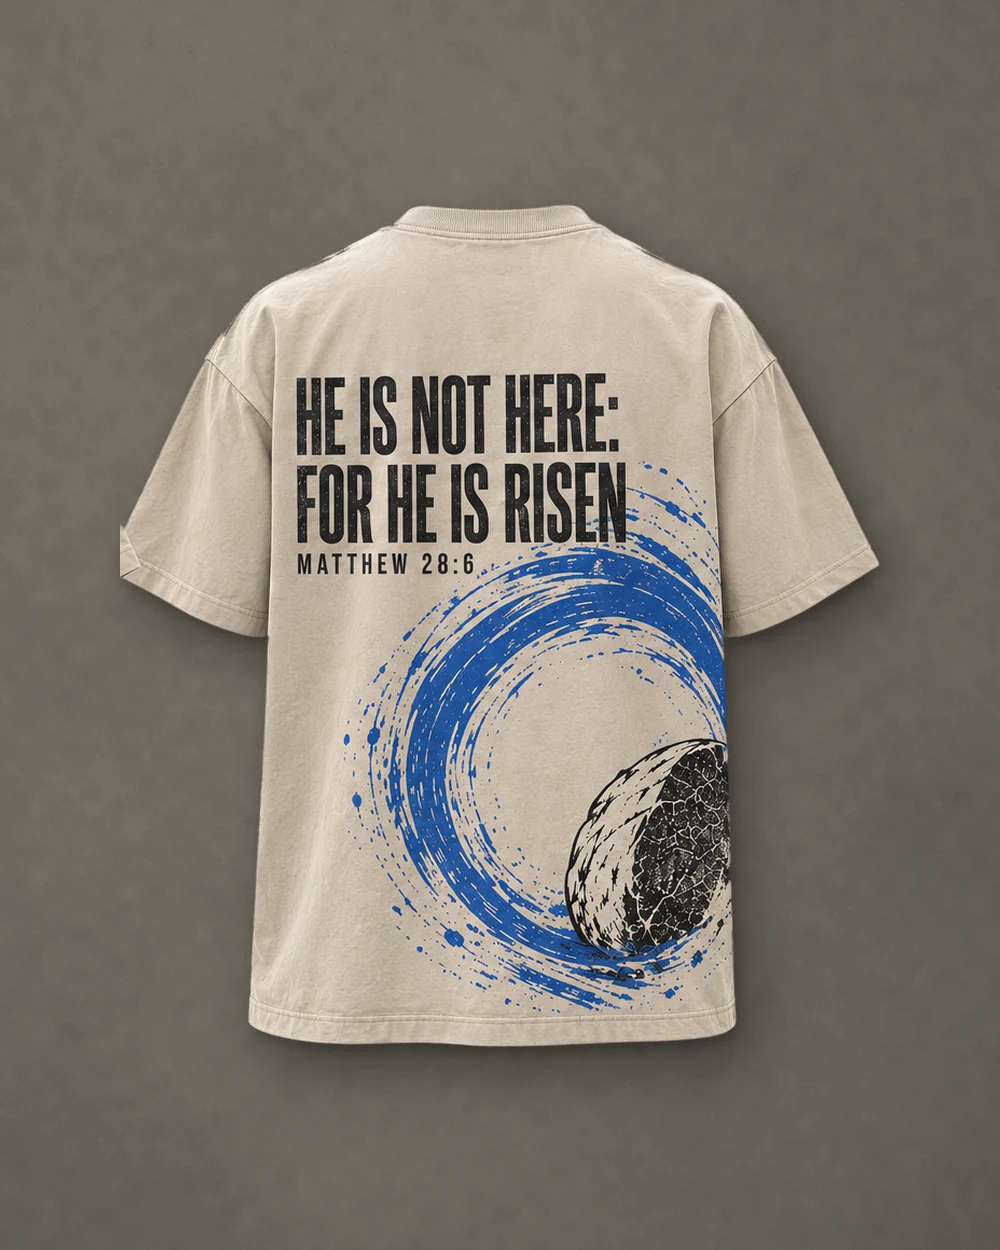
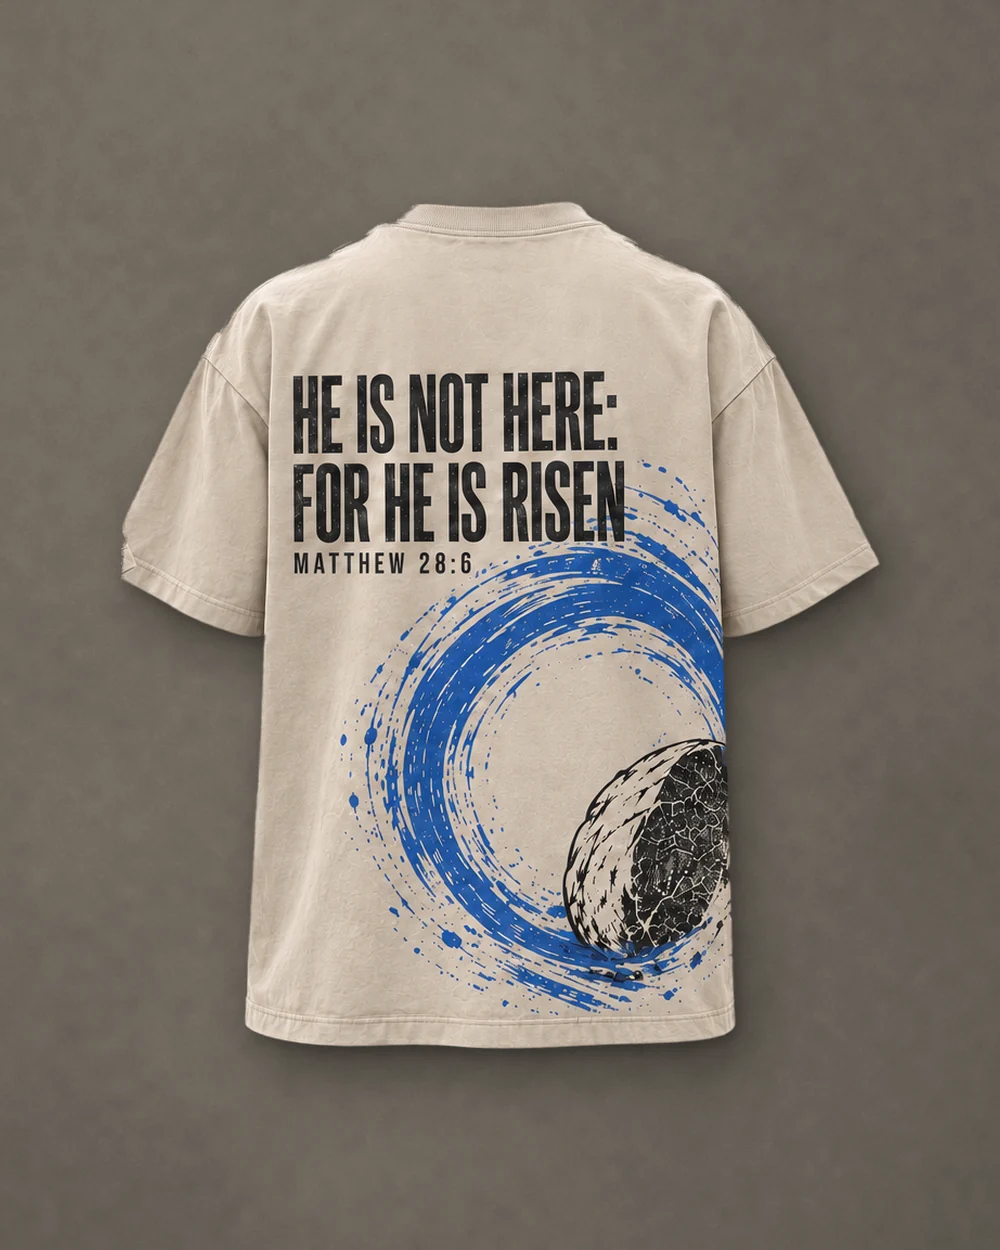
Update Stone in Motion to the revised design
The approved mockup changed: the front now carries only a small
wordmark at center chest, and the back carries the full artwork (the
angel's words above the stone rolling away in a sweep of blue).

- Replace the source mockup and regenerate the styled images; the back
  is now the listing image and the close-up.
- Update the design story, front/back descriptions and image text.

Claude-Session: https://claude.ai/code/session_01VmqVMxiDGTr2J5oF5LgYP4

diff --git a/assets/mockups/compose.py b/assets/mockups/compose.py
@@ -42,7 +42,7 @@ VIEWS = {
     "holy-ground": {"views": ["back", "front"], "detail": ("back", 0.5, 0.42, 0.74)},
     "still-the-storm": {"views": ["front", "back"], "detail": ("front", 0.5, 0.52, 0.74)},
     "thorns-to-lilies": {"views": ["back", "front"], "detail": ("back", 0.5, 0.47, 0.72)},
-    "stone-in-motion": {"views": ["front", "back"], "detail": ("front", 0.46, 0.66, 0.74)},
+    "stone-in-motion": {"views": ["back", "front"], "detail": ("back", 0.56, 0.5, 0.74)},
     "to-live-is-christ": {"views": ["front", "back"], "detail": ("front", 0.5, 0.52, 0.72)},
     "lambs-mark": {"views": ["front", "rear", "side"], "detail": ("front", 0.4, 0.36, 0.56)},
 }

diff --git a/assets/mockups/cutout.py b/assets/mockups/cutout.py
@@ -47,7 +47,8 @@ SHEETS: dict[str, dict] = {
     },
     "stone-in-motion": {
         "light": True,
-        "views": [("front", (30, 80, 768, 950)), ("back", (768, 80, 1510, 950))],
+        "touching": True,
+        "views": [("front", (20, 85, 770, 935)), ("back", (770, 85, 1520, 935))],
     },
     "to-live-is-christ": {
         "light": False,
